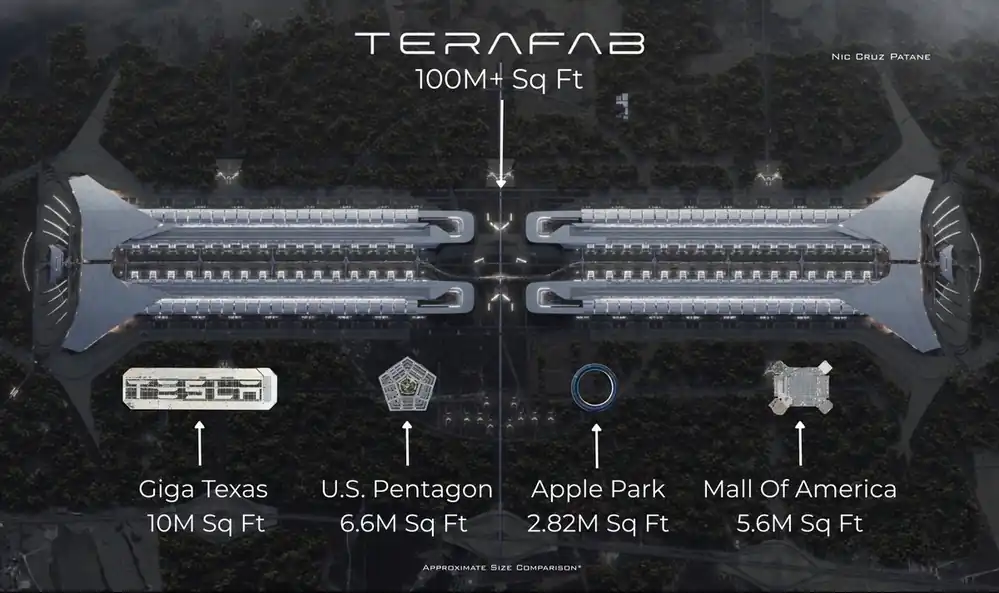
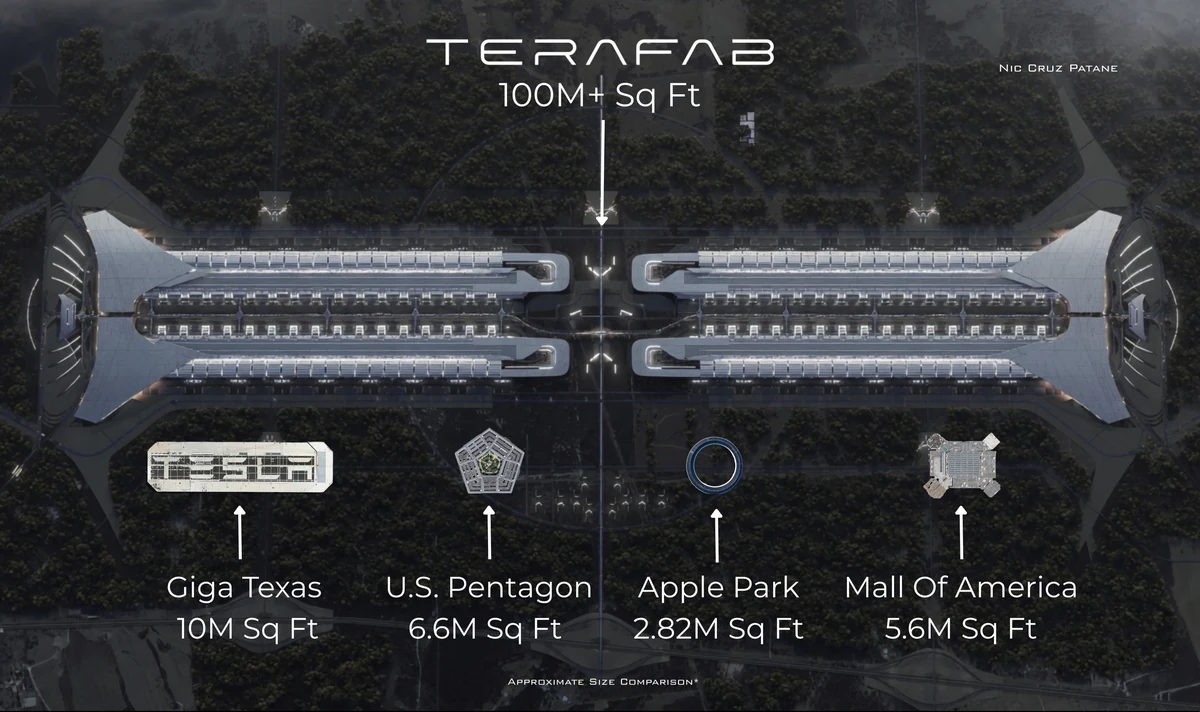
Migliora le immagini della notizia Terafab

diff --git a/novita.html b/novita.html
@@ -14,7 +14,7 @@
     <title>Novità — AI.it</title>
     <script>(() => { try { const saved = localStorage.getItem("aiit-theme"); const preferred = window.matchMedia("(prefers-color-scheme: dark)").matches ? "dark" : "light"; document.documentElement.dataset.theme = saved || preferred; } catch (_) { document.documentElement.dataset.theme = "light"; } })();</script>
     <link rel="stylesheet" href="styles.css?v=news-list-3" />
-  <link rel="stylesheet" href="novita.css?v=35" />
+    <link rel="stylesheet" href="novita.css?v=36" />
   </head>
   <body class="detail-page news-page news-list-page">
     <a class="skip-link" href="#feed">Salta alle notizie</a><div class="noise" aria-hidden="true"></div>
@@ -169,7 +169,10 @@
                   </div>
 
                   <figure class="terafab-render">
-                    <img src="assets/terafab-texas-render.webp" width="1200" height="675" loading="lazy" decoding="async" alt="Render ufficiale del progetto Terafab visto in prospettiva, con lunghi corpi di fabbrica simmetrici e una struttura circolare centrale" />
+                    <a class="terafab-image-zoom" href="https://sxcontent9668.azureedge.us/cms-assets/assets/2026_08_05_terafab_01_c491ff0b4d.jpg" target="_blank" rel="noreferrer">
+                      <img src="assets/terafab-texas-render.webp?v=2" width="1200" height="675" loading="lazy" decoding="async" alt="Render ufficiale del progetto Terafab visto in prospettiva, con lunghi corpi di fabbrica simmetrici e una struttura circolare centrale" />
+                      <span class="terafab-image-zoom-label">Apri l’originale 3840 × 2160 ↗</span>
+                    </a>
                     <figcaption><span>Render ufficiale · Tesla / SpaceX</span>È un’immagine di progetto, non una fotografia del sito costruito né una planimetria esecutiva.</figcaption>
                   </figure>
                 </section>
@@ -183,12 +186,18 @@
 
                   <div class="terafab-gallery">
                     <figure class="terafab-gallery-scale">
-                      <img src="assets/terafab-scale-nic-cruz-patane.webp" width="999" height="593" loading="lazy" decoding="async" alt="Confronto grafico approssimativo tra il render Terafab, Giga Texas, il Pentagono, Apple Park e il Mall of America" />
+                      <a class="terafab-image-zoom" href="https://pbs.twimg.com/media/HPEh8I5WMAAzUh2.jpg?name=orig" target="_blank" rel="noreferrer">
+                        <img src="assets/terafab-scale-nic-cruz-patane.webp?v=2" width="1200" height="712" loading="lazy" decoding="async" alt="Confronto grafico approssimativo: Terafab oltre 100 milioni di piedi quadrati, Giga Texas 10 milioni, Pentagono 6,6 milioni, Apple Park 2,82 milioni e Mall of America 5,6 milioni" />
+                        <span class="terafab-image-zoom-label">Apri l’originale 4096 × 2431 ↗</span>
+                      </a>
                       <figcaption><span>Confronto approssimativo · <a href="https://x.com/niccruzpatane/status/2085485425376760239" target="_blank" rel="noreferrer">Nic Cruz Patane ↗</a></span>È un montaggio indipendente costruito sul render SpaceX/Tesla. Musk ha definito <a href="https://x.com/elonmusk/status/2035822802448851453" target="_blank" rel="noreferrer">100 milioni di ft² il giusto ordine di grandezza ↗</a>, ma non ha convalidato le singole sagome: il conto equivale a circa 15 Pentagoni, non 50.</figcaption>
                     </figure>
                     <figure>
-                      <img src="assets/giga-texas-larry-moore-ccby.webp" width="900" height="506" loading="lazy" decoding="async" alt="Il lungo edificio reale di Giga Texas fotografato nel 2022" />
-                      <figcaption><span>Giga Texas reale · Larry D. Moore</span>La pagina Terafab usa Giga Texas, circa 10 milioni di ft², come unità di misura: l’obiettivo equivale a circa dieci volte quella superficie. Foto da <a href="https://commons.wikimedia.org/wiki/File:Gigafactory_Texas_Building_1_June_2022.jpg" target="_blank" rel="noreferrer">Wikimedia Commons ↗</a>, <a href="https://creativecommons.org/licenses/by/4.0/" target="_blank" rel="noreferrer">CC BY 4.0 ↗</a>; ridimensionata e convertita in WebP.</figcaption>
+                      <a class="terafab-image-zoom" href="https://digitalassets.tesla.com/tesla-contents/image/upload/f_auto%2Cq_auto/GigaTexas-Hero-Desktop.jpg" target="_blank" rel="noreferrer">
+                        <img src="assets/giga-texas-aerial-tesla.webp?v=2" width="900" height="506" loading="lazy" decoding="async" alt="Veduta aerea reale di Giga Texas, con il lungo edificio industriale in primo piano" />
+                        <span class="terafab-image-zoom-label">Apri l’originale 2880 × 1800 ↗</span>
+                      </a>
+                      <figcaption><span>Giga Texas reale · Tesla</span>La pagina Terafab usa Giga Texas, oltre 10 milioni di ft², come unità di misura: l’obiettivo equivale a circa dieci volte quella superficie. Foto dalla <a href="https://www.tesla.com/giga-texas" target="_blank" rel="noreferrer">pagina ufficiale Tesla ↗</a>; ritaglio editoriale, ridimensionato e convertito in WebP.</figcaption>
                     </figure>
                   </div>
 

diff --git a/novita.css b/novita.css
@@ -5086,6 +5086,34 @@ body.pacing-news-awake::after {
   box-shadow: 9px 9px 0 rgba(224,138,86,.18);
 }
 .terafab-render img { width: 100%; height: auto; }
+.terafab-image-zoom {
+  position: relative;
+  display: block;
+  overflow: hidden;
+  color: inherit;
+  text-decoration: none;
+  background: #070b0e;
+}
+.terafab-image-zoom img { display: block; }
+.terafab-image-zoom:focus-visible {
+  outline: 3px solid var(--terafab-steel);
+  outline-offset: -3px;
+}
+.terafab-image-zoom-label {
+  position: absolute;
+  top: 10px;
+  left: 10px;
+  padding: 7px 9px;
+  color: #f4eee5;
+  font: 700 9px/1.2 var(--mono);
+  letter-spacing: .035em;
+  text-transform: uppercase;
+  pointer-events: none;
+  border: 1px solid rgba(244,238,229,.34);
+  background: rgba(7,11,14,.88);
+  box-shadow: 0 4px 18px rgba(0,0,0,.28);
+}
+.terafab-image-zoom:hover .terafab-image-zoom-label { background: rgba(224,138,86,.94); }
 .terafab-render figcaption,
 .terafab-gallery figcaption,
 .terafab-fel-thread figcaption {
@@ -5138,7 +5166,7 @@ body.pacing-news-awake::after {
 
 .terafab-gallery {
   display: grid;
-  grid-template-columns: minmax(0, 1.45fr) minmax(280px, .55fr);
+  grid-template-columns: 1fr;
   gap: 12px;
 }
 .terafab-gallery figure {
@@ -5148,8 +5176,12 @@ body.pacing-news-awake::after {
   border: 1px solid var(--terafab-rule);
   background: #0b1014;
 }
-.terafab-gallery figure img { width: 100%; aspect-ratio: 16 / 9; object-fit: cover; }
-.terafab-gallery-scale img { object-position: center; }
+.terafab-gallery figure img { width: 100%; height: auto; object-fit: contain; }
+.terafab-gallery-scale { grid-column: 1 / -1; }
+.terafab-gallery > figure:not(.terafab-gallery-scale) {
+  width: min(100%, 900px);
+  justify-self: center;
+}
 .terafab-gallery figcaption { flex: 1; }
 .terafab-gallery figcaption a { color: var(--terafab-steel); }
 
@@ -5384,8 +5416,7 @@ body.pacing-news-awake::after {
   .terafab-render { max-width: 680px; }
   .terafab-section-head > p,
   .terafab-texas > header p { margin-left: 0; }
-  .terafab-gallery { grid-template-columns: 1fr 1fr; }
-  .terafab-gallery-scale { grid-column: 1 / -1; }
+  .terafab-gallery { grid-template-columns: 1fr; }
   .terafab-ledger { grid-template-columns: 1fr; }
   .terafab-ledger > div:nth-child(4n+2),
   .terafab-ledger > div:nth-child(4n+3) { background: var(--terafab-panel); }
@@ -5411,7 +5442,7 @@ body.pacing-news-awake::after {
   .terafab-section-head h3,
   .terafab-texas h3 { font-size: 37px; }
   .terafab-gallery { grid-template-columns: 1fr; }
-  .terafab-gallery-scale { grid-column: auto; }
+  .terafab-image-zoom-label { top: 7px; left: 7px; padding: 6px 7px; font-size: 8px; }
   .terafab-scale-strip { grid-template-columns: repeat(2, minmax(0, 1fr)); }
   .terafab-ledger > div { grid-template-columns: 118px minmax(0, 1fr); padding: 11px 12px; }
   .terafab-ledger dt strong { font-size: 24px; }
